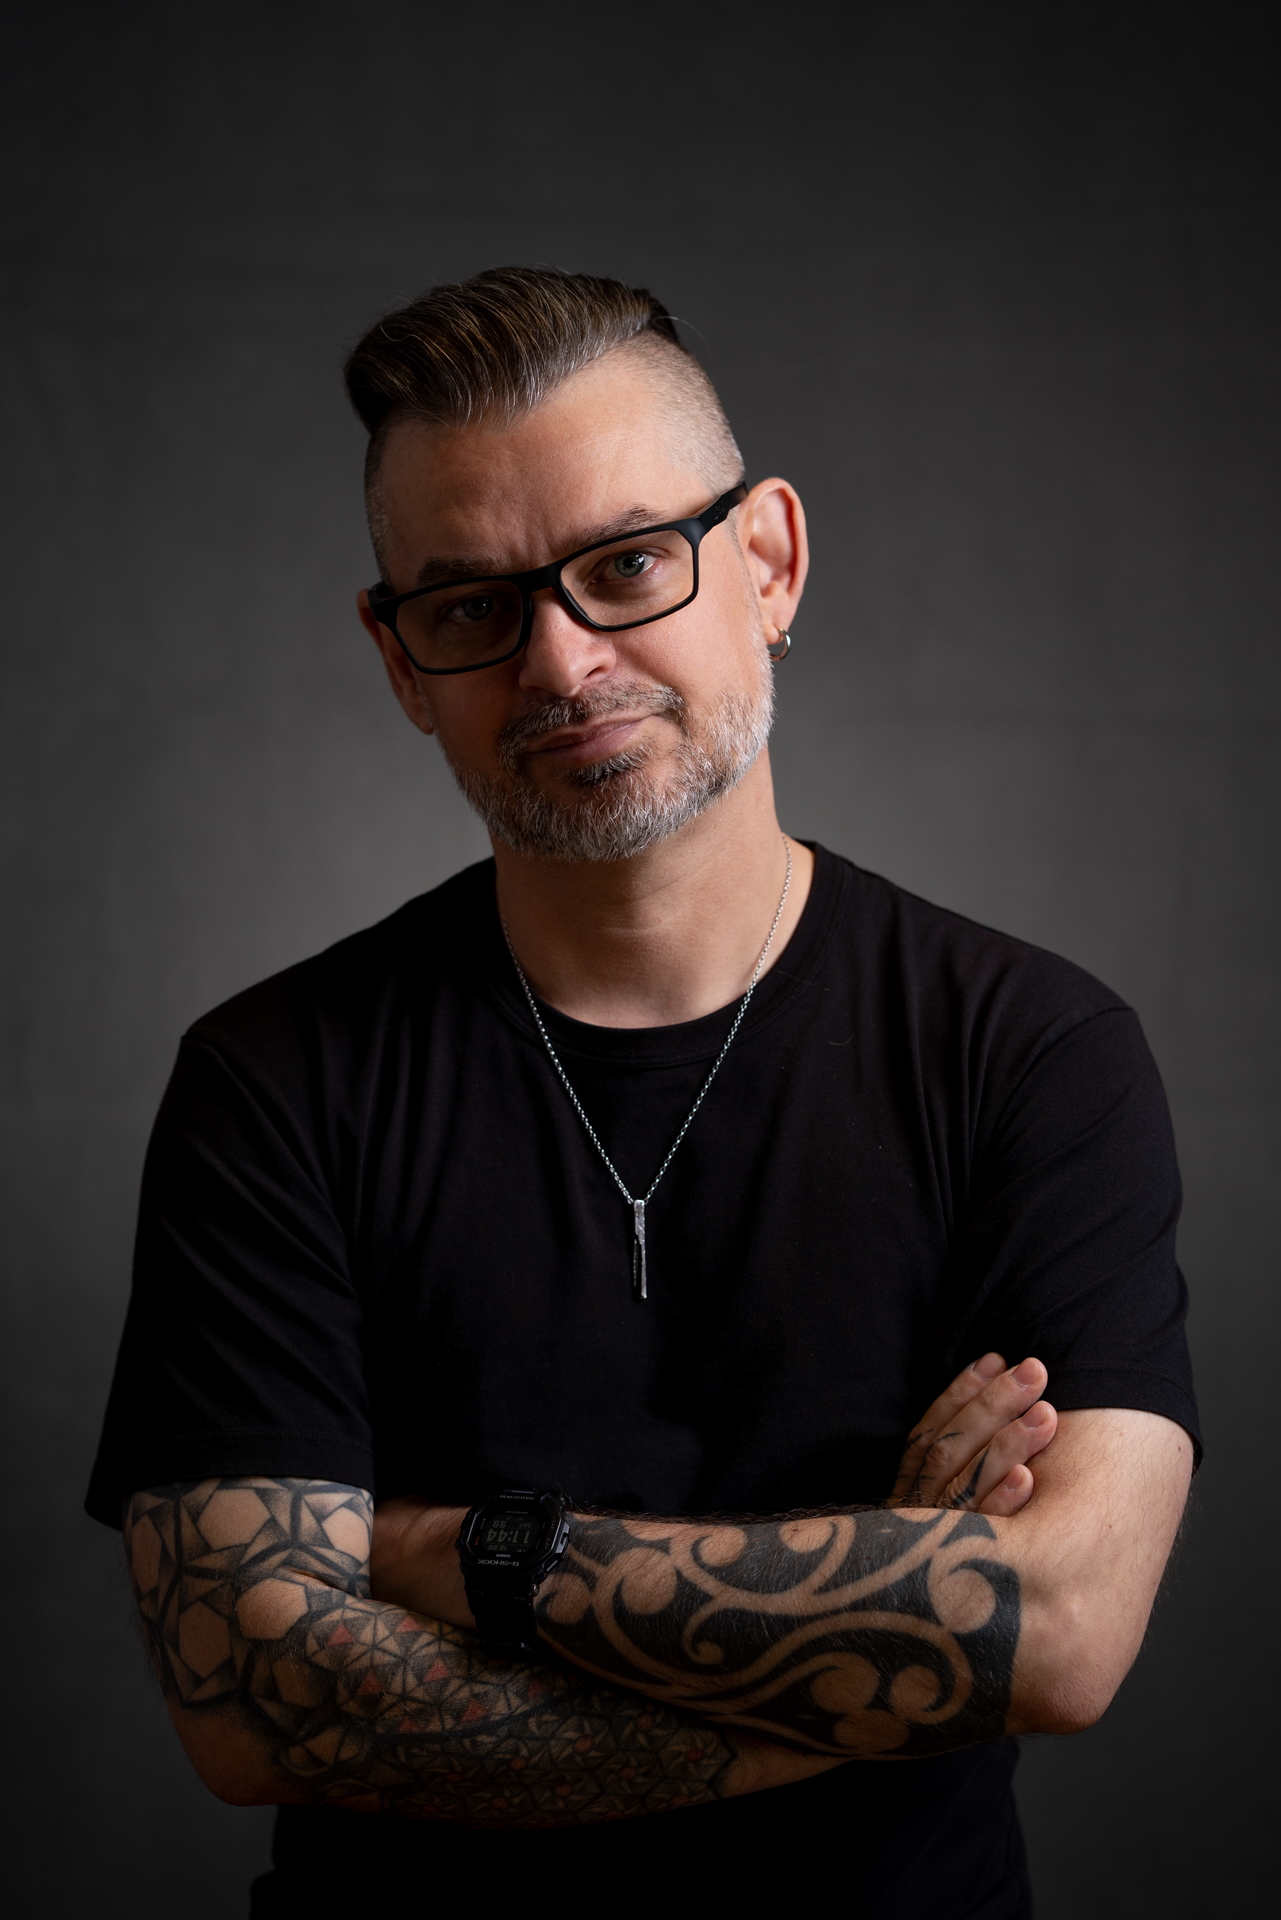
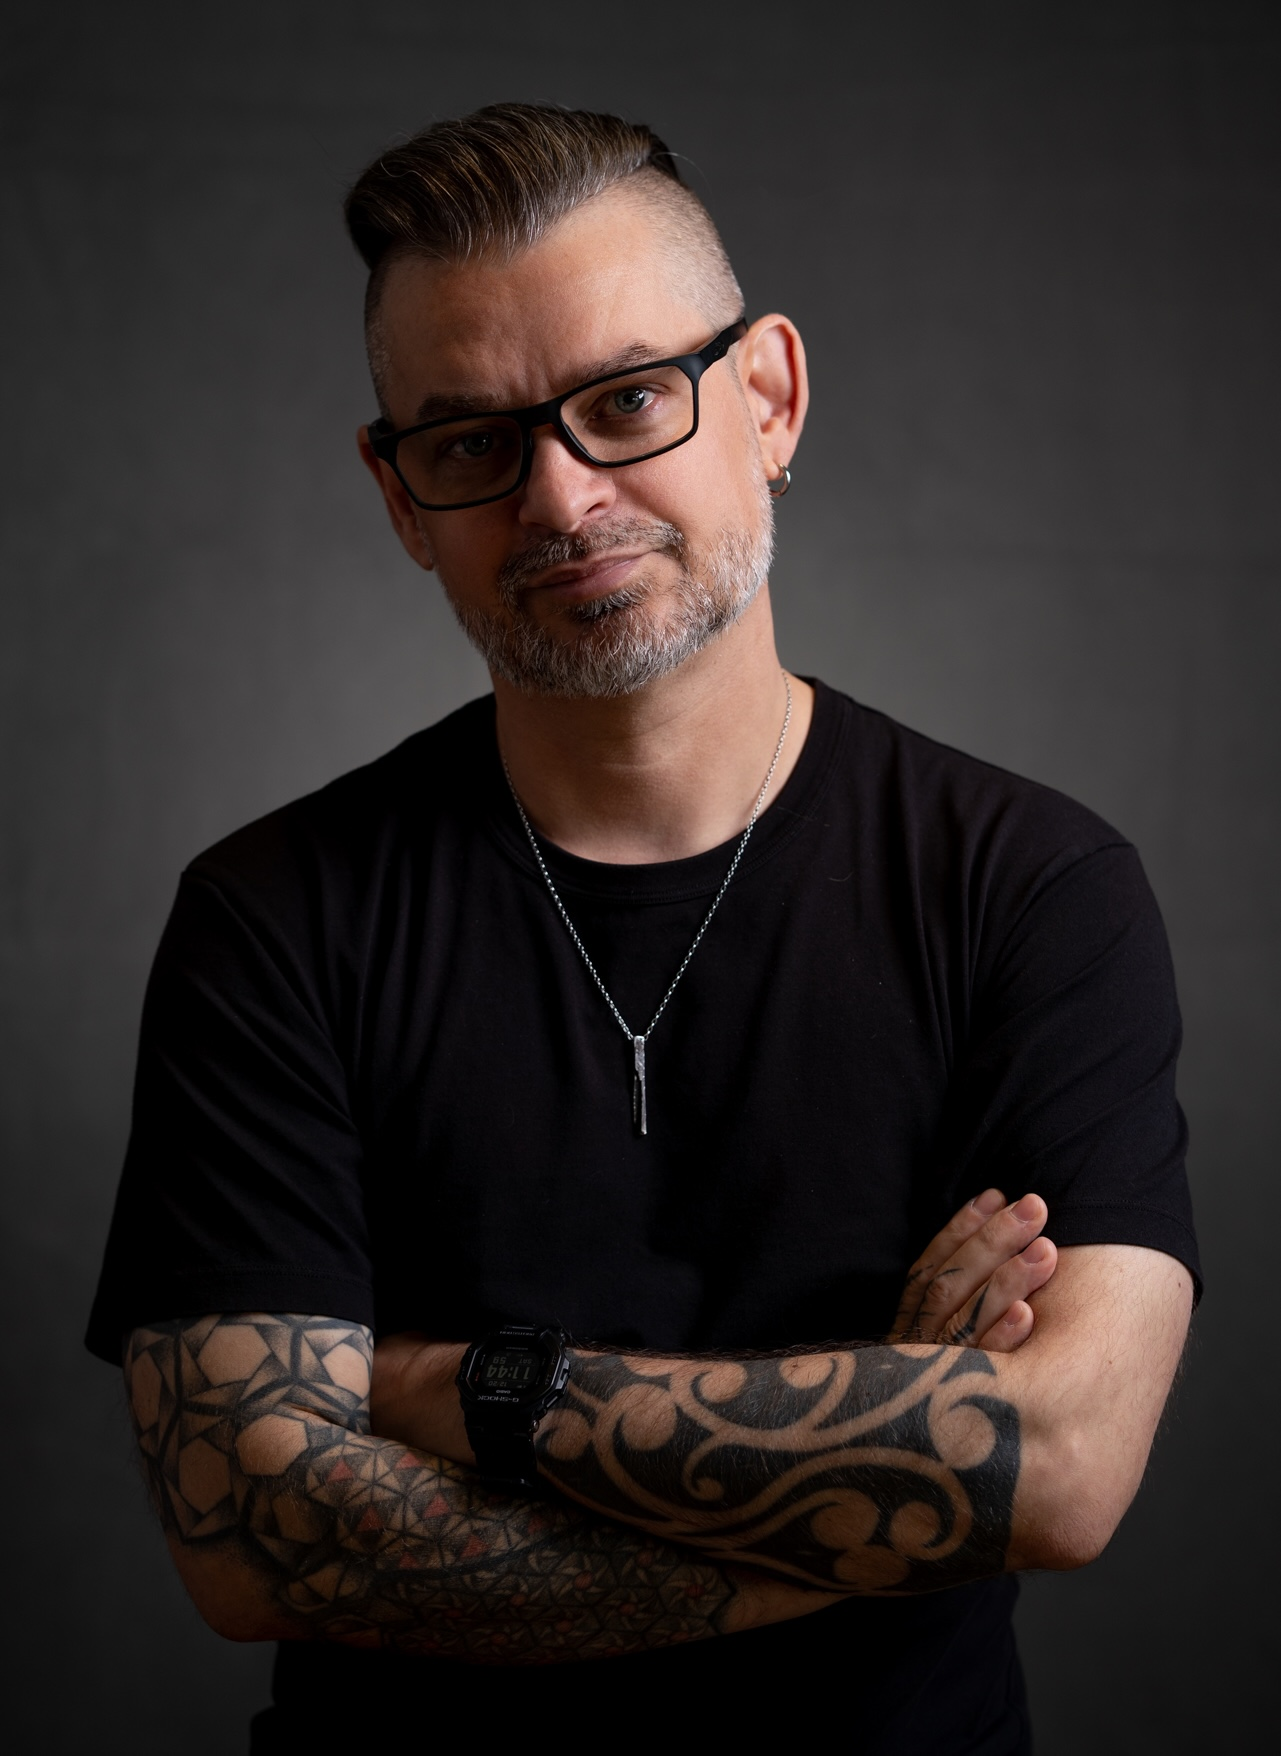
update profile image and mobile layout

Changed region(s): [[0.0937, 0.0615, 0.9368, 0.6765], [0.0625, 0.6765, 0.9368, 0.9533], [0.4684, 0.5843, 0.5308, 0.6765]]

diff --git a/docs/css/page.css b/docs/css/page.css
@@ -349,4 +349,8 @@ ul {
 
 [alt=portrait] {
     width: 400px;
+
+    @media screen and (max-width: 960px) {
+        width: 90dvi;
+    }
 }

diff --git a/src/css/page.css b/src/css/page.css
@@ -349,4 +349,8 @@ ul {
 
 [alt=portrait] {
     width: 400px;
+
+    @media screen and (max-width: 960px) {
+        width: 90dvi;
+    }
 }
